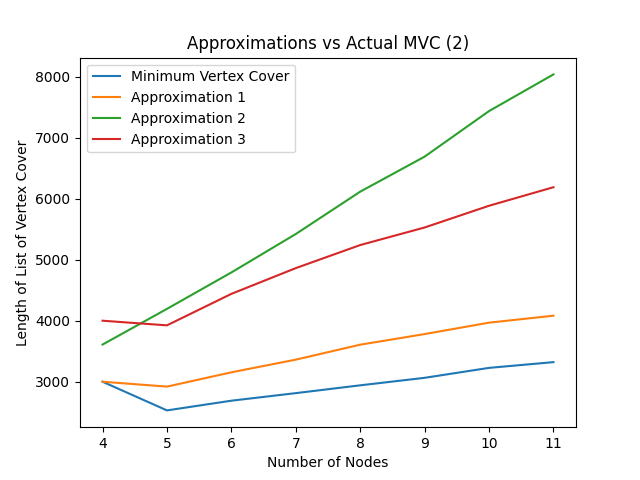
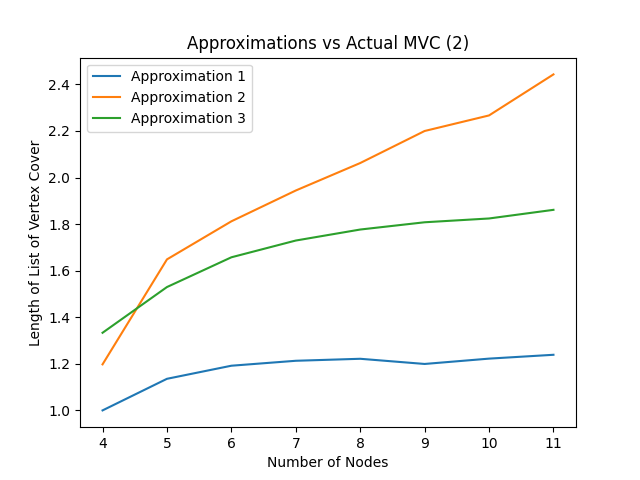
changed experiment3 metric

diff --git a/experiment_3.py b/experiment_3.py
@@ -2,13 +2,12 @@
 from graph import create_random_graph, MVC, approx1, approx2, approx3
 import matplotlib.pyplot as plot
 
-mvc_sums = []
 approx1_sums = []
 approx2_sums = []
 approx3_sums = []
 runs = 15
 
-for m in range(runs):
+for m in range(1, runs):
     graphs = []
     for i in range(1000):
         g = create_random_graph(8, m * 2)
@@ -24,26 +23,23 @@ for m in range(runs):
         a2_sum += len(approx2(g))
         a3_sum += len(approx3(g))
 
-    mvc_sums.append(mvc_sum)
-    approx1_sums.append(a1_sum)
-    approx2_sums.append(a2_sum)
-    approx3_sums.append(a3_sum)
+    approx1_sums.append(a1_sum / mvc_sum)
+    approx2_sums.append(a2_sum / mvc_sum)
+    approx3_sums.append(a3_sum / mvc_sum)
 
-plot.plot([2 * x for x in range(runs)], mvc_sums, label="Minimum Vertex Cover")
-plot.plot([2 * x for x in range(runs)], approx1_sums, label="Approximation 1")
-plot.plot([2 * x for x in range(runs)], approx2_sums, label="Approximation 2")
-plot.plot([2 * x for x in range(runs)], approx3_sums, label="Approximation 3")
+plot.plot([2 * x for x in range(1, runs)], approx1_sums, label="Approximation 1")
+plot.plot([2 * x for x in range(1, runs)], approx2_sums, label="Approximation 2")
+plot.plot([2 * x for x in range(1, runs)], approx3_sums, label="Approximation 3")
 
 plot.title("Approximations vs Actual MVC (1)")
 plot.xlabel("Number of Edges")
-plot.ylabel("Length of List of Vertex Cover")
+plot.ylabel("Expected Performance")
 plot.legend()
 plot.savefig("graphs/experiment_3_1.png")
 
-# Second approximation experiment, tests sums of minimum covers with increasing num of nodes and proportional num of edges
+# Second approximation experiment, tests sums of minimum covers with increasing num of nodes and 6 edges
 
 plot.clf()
-mvc_sums.clear()
 approx1_sums.clear()
 approx2_sums.clear()
 approx3_sums.clear()
@@ -65,12 +61,10 @@ for m in range(runs):
         a2_sum += len(approx2(g))
         a3_sum += len(approx3(g))
 
-    mvc_sums.append(mvc_sum)
-    approx1_sums.append(a1_sum)
-    approx2_sums.append(a2_sum)
-    approx3_sums.append(a3_sum)
+    approx1_sums.append(a1_sum / mvc_sum)
+    approx2_sums.append(a2_sum / mvc_sum)
+    approx3_sums.append(a3_sum / mvc_sum)
 
-plot.plot([x + 4 for x in range(runs)], mvc_sums, label="Minimum Vertex Cover")
 plot.plot([x + 4 for x in range(runs)], approx1_sums, label="Approximation 1")
 plot.plot([x + 4 for x in range(runs)], approx2_sums, label="Approximation 2")
 plot.plot([x + 4 for x in range(runs)], approx3_sums, label="Approximation 3")
